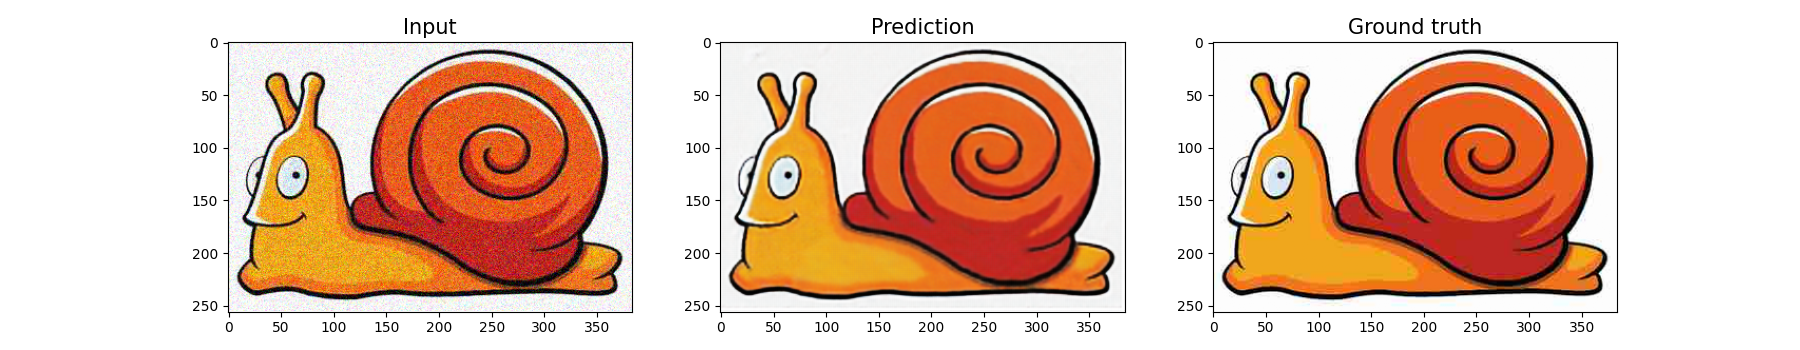
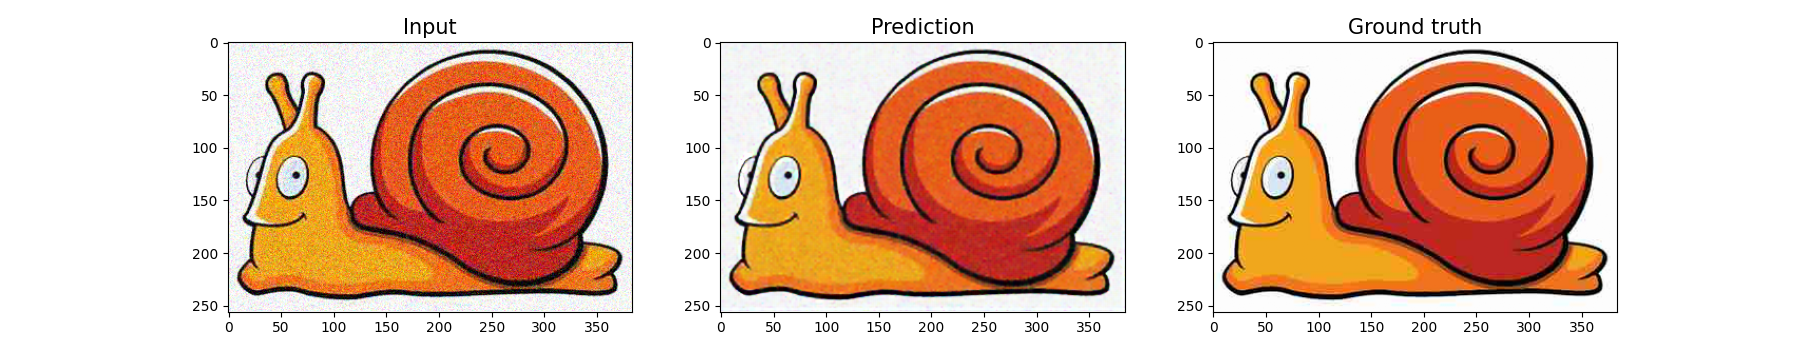
final

diff --git a/main.py b/main.py
@@ -27,6 +27,7 @@ if __name__ == "__main__":
     image = Image.open(address, 'r')
     w, h = image.size
     if args.task != 'super':
+        image1 = image.resize((w - w % 32, h - h % 32), resample=Image.LANCZOS)
         image = image.resize((w - w % 32, h - h % 32), resample=Image.LANCZOS)
     image = np.array(image)
     # print(image.shape)
@@ -47,13 +48,13 @@ if __name__ == "__main__":
     
     if args.task == 'denoise':
         channels = 32
-        ground_truth = Image.open(address, 'r').convert("RGB")
+        ground_truth = image
         # if args.name == 'snail':
         #     model = Model(image.shape[1], image.shape[2],input_channel=channels, channels=[128, 128, 128, 256, 256], skip=[4, 4, 4, 8, 8]).to(device)
         # else:
         #     model = Model(image.shape[1], image.shape[2],input_channel=channels,u_mode='gaussian').to(device)
-        # model = Model(image.shape[1], image.shape[2],input_channel=channels,out_channels=in_ch, u_mode='gaussian').to(device)
-        model = Model(image.shape[1], image.shape[2],input_channel=channels,out_channels=in_ch,skip=[8,8,4,4,4]).to(device)
+        model = Model(image.shape[1], image.shape[2],input_channel=channels,out_channels=in_ch, u_mode='gaussian').to(device)
+        # model = Model(image.shape[1], image.shape[2],input_channel=channels,out_channels=in_ch,skip=[8,8,4,4,4]).to(device)
         optimizer = optim.Adam(model.parameters(), lr=0.02)
         loss_fn1 = torch.nn.SmoothL1Loss()
         loss_fn2 = TVLoss(weight=0.02)
@@ -157,7 +158,7 @@ if __name__ == "__main__":
                 # if epoch == args.epoch - 1:
                 #     res = sharp_model(res)
             # loss = loss_fn1(img_pred, corrupted_img) + loss_fn2(img_pred)  
-            loss = loss_fn1(img_pred, corrupted_img)
+            # loss = loss_fn1(img_pred, corrupted_img)
             if auto_flag:
                 pred1 = img_pred[0].cpu().transpose(0, 1).transpose(1, 2).data.numpy()
                 sharpness = cal_sharp(pred1)
@@ -237,7 +238,13 @@ if __name__ == "__main__":
 
         # calculate psnr
         prediction = Image.open(f'./Imgs/{args.name}_{args.task}{str(epoch+1)}.png', 'r').convert("RGB")
-        psnr = cal_psnr(np.array(prediction), np.array(ground_truth), 255)
+        prediction = np.array(prediction)
+        if prediction.max()<=1:
+            prediction = prediction * 255
+        gt = np.array(ground_truth)[0]
+        if gt.max()<=1:
+            gt = gt * 255
+        psnr = cal_psnr(prediction, gt, 255)
         
     elif args.task == 'super':
         plt.figure(figsize=(18, 4))
